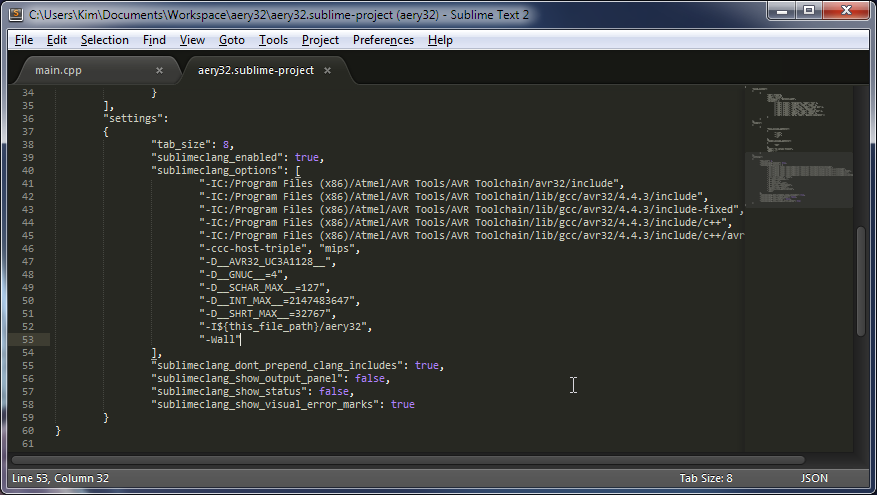
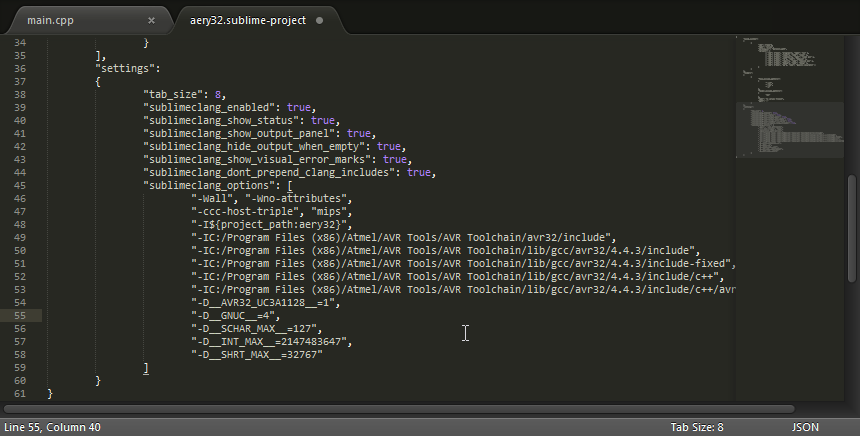
Update ST2 page

Changed region(s): [[0.0, 0.0, 1.0, 1.0], [0.1209, 0.2087, 0.8767, 0.8349], [0.8465, 0.1491, 0.8767, 0.1789]]

diff --git a/source/use_with_st2.rst b/source/use_with_st2.rst
@@ -3,7 +3,7 @@ Sublime Text 2
 
 .. note::
 
-	These instructions are written for Windows but should work similarly in Linux and Mac OS X
+	These instructions are written for Windows but should work similarly in Linux and Mac OS X. And don't miss the Aery32 plug-in for Sublime Text 2.
 
 Aery32 Framework comes with the default `Sublime Text 2 <http://www.sublimetext.com/2>`_ project file which you can use straight away. The quickest way to start the project is to browse to the project directory and open ``aery32.sublime-project`` file using the right click and selecting *Open with Sublime Text 2*.
 
@@ -38,8 +38,8 @@ When you want to open a file, let's say ``aery32/aery32/gpio.h``, press **Ctrl+P
     :target: _images/st2_open_file_quickly.png
     :alt: Open files quickly in ST2
 
-Autocompletion with SublimeClang
---------------------------------
+Autocomplete with SublimeClang
+------------------------------
 
 `SublimeClang <https://github.com/quarnster/SublimeClang>`_ provides a neat autocompletion for Aery32 project. With this plugin you don't have to remember all the function names and their parameters completely. Just write the beginning of the function, for example *gpio_t*, and you get a list of functions. Press **Ctrl+Space** to move on the list and **Tab** to select the function. When you have set the first param, you can press **Tab** again to jump to the next one.
 
@@ -47,31 +47,43 @@ Autocompletion with SublimeClang
     :target: _images/st2_autocompletion.png
     :alt: Example of ST2 autocompletion with SublimeClang
 
-SublimeClang prerequisites for the clang static analyzer is to have clang installed and set in your path. The other functionality works without having the clang binaries installed. Here we only use the "other functionalities" and thus do not need clang. So install SublimeClang as instructed in its README without clang. In Linux you can also skip the additional prerequisities. Then open ``aery32.sublime-project`` and add the following in settings. If you are on Linux or Mac OS X, alter the AVR Toolchain installation directory appropriately.
+SublimeClang prerequisites for the clang static analyzer is to have clang installed and set in your path. The other functionality works without having the clang binaries installed. Here we only use the "other functionalities" and thus do not need clang. So install SublimeClang as instructed in its README without paying any attention toward clang. In Linux you can also skip the additional prerequisities.
+
+Now open ``aery32.sublime-project`` and add the following settings. If you are on Linux or Mac OS X, alter the AVR Toolchain installation directory appropriately.
 
 .. code-block:: none
 
 	"sublimeclang_enabled": true,
+	"sublimeclang_show_status": true,
+	"sublimeclang_show_output_panel": true,
+	"sublimeclang_hide_output_when_empty": true, 
+	"sublimeclang_show_visual_error_marks": true,
+	"sublimeclang_dont_prepend_clang_includes": true,
 	"sublimeclang_options": [
+		"-Wall", "-Wno-attributes", 
+		"-ccc-host-triple", "mips", 
+		"-I${project_path:aery32}", 
 		"-IC:/Program Files (x86)/Atmel/AVR Tools/AVR Toolchain/avr32/include",
 		"-IC:/Program Files (x86)/Atmel/AVR Tools/AVR Toolchain/lib/gcc/avr32/4.4.3/include",
 		"-IC:/Program Files (x86)/Atmel/AVR Tools/AVR Toolchain/lib/gcc/avr32/4.4.3/include-fixed",
 		"-IC:/Program Files (x86)/Atmel/AVR Tools/AVR Toolchain/lib/gcc/avr32/4.4.3/include/c++",
 		"-IC:/Program Files (x86)/Atmel/AVR Tools/AVR Toolchain/lib/gcc/avr32/4.4.3/include/c++/avr32",
-		"-ccc-host-triple", "mips",
-		"-D__AVR32_UC3A1128__",
+		"-D__AVR32_UC3A1128__=1",
 		"-D__GNUC__=4",
 		"-D__SCHAR_MAX__=127",
 		"-D__INT_MAX__=2147483647",
 		"-D__SHRT_MAX__=32767"
-		"-I${this_file_path}/aery32",
-		"-Wall"
-	],
-	"sublimeclang_dont_prepend_clang_includes": true,
-	"sublimeclang_show_output_panel": false,
-	"sublimeclang_show_status": false,
-	"sublimeclang_show_visual_error_marks": true
+	]
 
 .. image:: ../images/st2_sublimeclang_settings_for_avr32.png
     :target: _images/st2_sublimeclang_settings_for_avr32.png
     :alt: ST2 SublimeClang settings for AVR32 Toolchain
+
+.. note::
+
+	The following preprocessor definitions within the sublimeclang_options, like *-D__AVR32_UC3A1128__=1*, are the few that we have found to be essentials. If you use `Aery32 Sublime Text 2 plug-in <https://github.com/aery32/sublime-aery32>`_ to create a new project, all of the definitions are added. These have an effect on the autocomplete.
+
+Aery32 plug-in
+--------------
+
+With `Aery32 plug-in for Sublime Text 2 <https://github.com/aery32/sublime-aery32>`_ you can easily create new projects and all the above setup process is automated for you. Just install the plugin via package control and start using it as any other ST2 plug-in.
